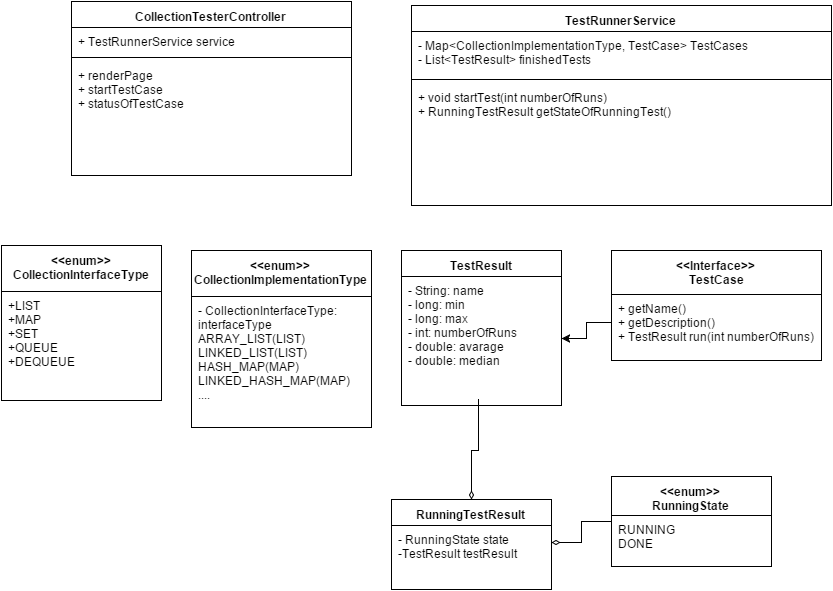
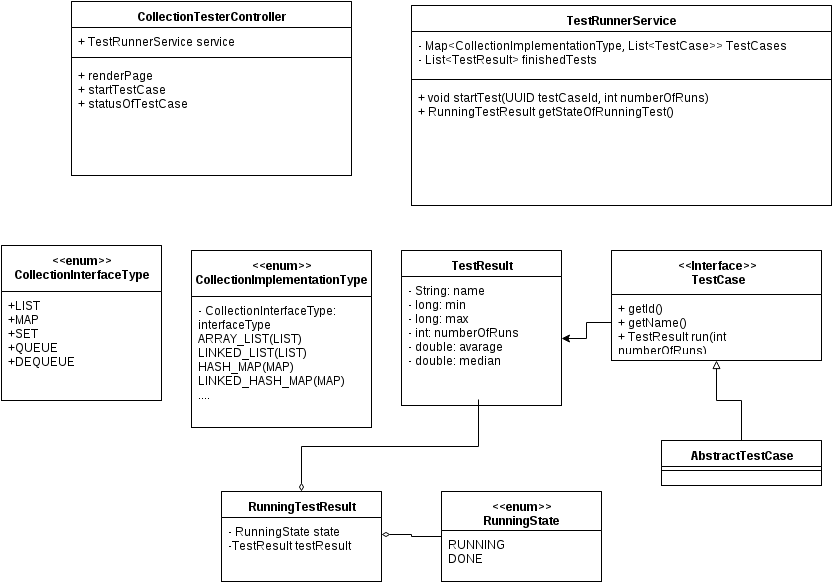
add readme and uml diagram

diff --git a/CollectionTester/README.md b/CollectionTester/README.md
@@ -1,0 +1,13 @@
+# CollectionTester program
+
+## Introduction
+This program goal is to run different performance test against different collection implementations
+
+## Usage
+If you want to run the program, you have to install maven and java to your system. After that use the following command:
+```mvn clean install tomcat7:run```
+
+## Extension
+If you want to extend the program, just inherit **AbstractTestCase** class abstract methods. The **init** method run before every test, the **run** method implement the test. The **getName** method identify the test case.
+
+![uml](https://raw.githubusercontent.com/taz1988/SelfDevelopment/master/CollectionTester/CollectionTesterUml.png)
